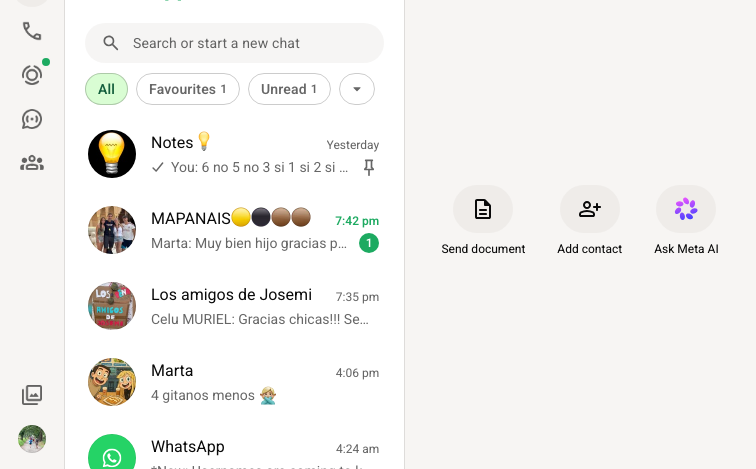
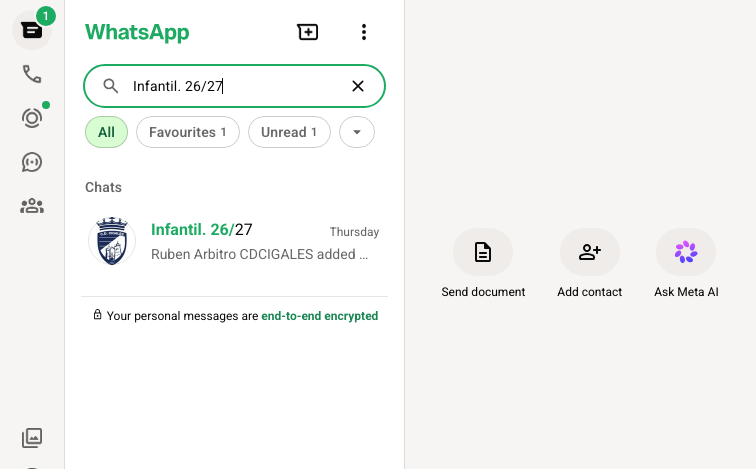
Press Enter and click search result item to open group chat and populate metadata

diff --git a/index.js b/index.js
@@ -137,26 +137,24 @@ async function limpiarPantallaWhatsApp(page) {
 }
 
 /**
- * Busca un grupo enfocando directamente el elemento <INPUT role="textbox"> de la barra de búsqueda
+ * Busca un grupo escribiendo en el <input> de búsqueda, seleccionándolo y extrayendo los participantes
  */
 async function buscarGrupoPorNombreSeguro(client, targetGroupName) {
     const page = client.pupPage;
 
     const searchSelector = 'input[aria-label="Search or start a new chat"], input[role="textbox"], input.html-input';
 
-    console.log(`    ↳ Esperando a que el elemento <input> de búsqueda esté listo...`);
+    console.log(`    ↳ Esperando el elemento de búsqueda...`);
     try {
         await page.waitForSelector(searchSelector, { timeout: 20000 });
-    } catch (e) {
-        console.warn('    ↳ Tiempo de espera agotado buscando el selector del input.');
-    }
+    } catch (e) {}
 
     await limpiarPantallaWhatsApp(page);
 
     try {
         const inputHandle = await page.$(searchSelector);
         if (inputHandle) {
-            console.log(`    ↳ Selector <input> localizado. Haciendo clic e ingresando "${targetGroupName}"...`);
+            console.log(`    ↳ Escribiendo "${targetGroupName}" en el buscador...`);
             await inputHandle.click();
             await new Promise(r => setTimeout(r, 300));
 
@@ -167,23 +165,35 @@ async function buscarGrupoPorNombreSeguro(client, targetGroupName) {
             await page.keyboard.press('Backspace');
             await new Promise(r => setTimeout(r, 200));
 
-            // Escribir directamente sobre el campo de texto
+            // Escribir el término de búsqueda
             await inputHandle.type(targetGroupName, { delay: 70 });
-            console.log(`    ↳ Búsqueda "${targetGroupName}" escrita con éxito en el input. Esperando 4s...`);
+            await new Promise(r => setTimeout(r, 2000));
 
-            await new Promise(r => setTimeout(r, 4000));
-        } else {
-            console.warn('    ↳ No se pudo obtener el handle del elemento input.');
+            console.log(`    ↳ Seleccionando el grupo "${targetGroupName}" en los resultados de búsqueda...`);
+            
+            // Pulsar Enter o hacer clic en el resultado del chat para abrir el grupo y cargar sus metadatos
+            await page.keyboard.press('Enter');
+            await new Promise(r => setTimeout(r, 1000));
+
+            await page.evaluate((targetName) => {
+                const spans = Array.from(document.querySelectorAll('#pane-side span, #side span, div[role="listitem"] span'));
+                const match = spans.find(s => s.innerText && s.innerText.trim().toLowerCase() === targetName.trim().toLowerCase());
+                if (match) {
+                    try { match.click(); } catch(e) {}
+                }
+            }, targetGroupName);
+
+            await new Promise(r => setTimeout(r, 2000));
         }
     } catch (err) {
-        console.warn('    ↳ Advertencia interactuando con el input de búsqueda:', err.message);
+        console.warn('    ↳ Advertencia buscando e interactuando con el grupo:', err.message);
     }
 
-    // Tomar captura de pantalla tras la búsqueda
+    // Capturar pantalla tras seleccionar el grupo
     const screenPath = path.resolve('./whatsapp_screen.png');
     try { await page.screenshot({ path: screenPath }); } catch (e) {}
 
-    // Inspeccionar los chats en Store.Chat tras realizar la búsqueda
+    // Inspeccionar los chats en Store.Chat tras seleccionar el grupo
     const result = await page.evaluate((targetName) => {
         const normTarget = targetName.trim().toLowerCase();
         const debugInfo = [];
@@ -202,7 +212,7 @@ async function buscarGrupoPorNombreSeguro(client, targetGroupName) {
 
             const isGroup = chat.isGroup || (chat.id && chat.id.server === 'g.us') || (chat.id && typeof chat.id === 'string' && chat.id.includes('g.us'));
 
-            if (isGroup) {
+            if (isGroup || (name && name.trim().toLowerCase() === normTarget)) {
                 debugInfo.push({ name, id: chat.id ? (chat.id._serialized || chat.id) : 'unknown' });
 
                 if (name && name.trim().toLowerCase() === normTarget) {
@@ -237,7 +247,7 @@ async function buscarGrupoPorNombreSeguro(client, targetGroupName) {
     }, targetGroupName);
 
     if (result && result.debugInfo && result.debugInfo.length > 0) {
-        console.log('    [DIAGNÓSTICO] Grupos detectados tras la búsqueda UI:');
+        console.log('    [DIAGNÓSTICO] Grupos detectados en memoria activa:');
         result.debugInfo.forEach(g => console.log(`      - "${g.name}" (ID: ${g.id})`));
     }
 
